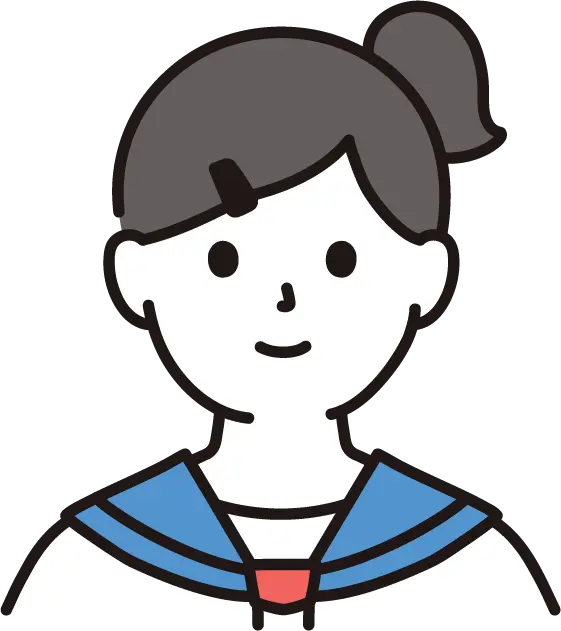
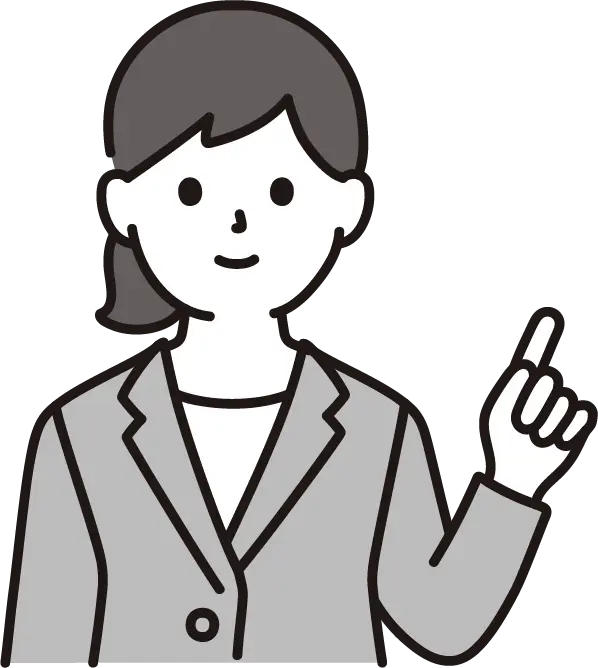
生徒会役員画像変更

diff --git a/src/app/overview/page.tsx b/src/app/overview/page.tsx
@@ -79,7 +79,7 @@ const Home = () => {
         </div>
         <div className="flex flex-col md:flex-row items-center -ml-32 justify-center">
           <Image
-        src="/vice-chair.webp"
+        src="/chair.webp"
         alt="副会長"
         width={200}
         height={200}
@@ -96,21 +96,23 @@ const Home = () => {
           </div>
         </div>
         <div className="flex flex-col md:flex-row items-center ml-32 justify-center">
-          <Image
-        src="/secretary.webp"
-        alt="書記"
-        width={200}
-        height={200}
-        className="mb-4 md:mb-0 md:mr-2"
-          />
-          <div className="bg-green-700 text-white font-bold py-4 px-6 flex flex-col items-center justify-center w-full md:w-[200px] h-[200px]">
-        <h2 className="text-2xl mb-2">書記</h2>
-        <button 
-          className="flex items-center justify-center bg-white text-green-700 rounded-full w-10 h-10 transition-transform duration-300 transform hover:scale-110"
-          onClick={() => handleClick('/secretary')}
-        >
-          <SlArrowRight className="text-2xl transition-transform duration-300 transform hover:translate-x-1" />
-        </button>
+          <div className="w-[200px] h-[200px] flex items-center justify-center">
+            <Image
+              src="/secretary.webp"
+              alt="書記"
+              width={170}
+              height={170}
+              className="mb-4 md:mb-0 md:mr-2"
+            />
+          </div>
+          <div className="bg-green-700 text-white font-bold py-4 px-6 flex ml-2 flex-col items-center justify-center w-full md:w-[200px] h-[200px]">
+            <h2 className="text-2xl mb-2">書記</h2>
+            <button 
+              className="flex items-center justify-center bg-white text-green-700 rounded-full w-10 h-10 transition-transform duration-300 transform hover:scale-110"
+              onClick={() => handleClick('/secretary')}
+            >
+              <SlArrowRight className="text-2xl transition-transform duration-300 transform hover:translate-x-1" />
+            </button>
           </div>
         </div>
         <div className="flex flex-col md:flex-row items-center -ml-32 justify-center">

diff --git a/src/app/components/Results.tsx b/src/app/components/Results.tsx
@@ -4,8 +4,9 @@ const Results = () => {
       <h3 className="text-2xl font-bold text-green-600 mb-4 ml-[10%] text-left">結果公示</h3>
       <div className="space-y-4">
         <div className="border-b border-gray-300 pb-4">
-          <h4 className="text-xl font-semibold">選挙結果速報</h4>
-          <p>開票作業が終了するまで今しばらくお待ちください。</p>
+          <h4 className="text-xl font-semibold">選挙結果</h4><br />
+          <p>オンライン結果公示：2025年2月22日 12:00 (予定)</p>
+          <p>結果公示時間までしばらくお待ちください。</p>
         </div>
       </div>
     </div>

diff --git a/src/app/vice-chair/page.tsx b/src/app/vice-chair/page.tsx
@@ -32,7 +32,7 @@ const ViceChairPage = () => {
               <h1 className="text-4xl ml-6 mb-2 inline-block align-middle mt-2 mr-4">副会長</h1>
             </div>
           </div>
-          <Image src="/vice-chair.webp" alt="役職画像" width={300} height={300} className="max-w-full h-auto mt-5" />
+          <Image src="/chair.webp" alt="役職画像" width={300} height={300} className="max-w-full h-auto mt-5" />
           <p className="text-xl font-semibold mt-2">2024年度中学生徒会副会長 東明里</p>
           <div className="mt-4 w-full">
             <div className="flex items-center w-full mb-4">

diff --git a/src/app/components/News.tsx b/src/app/components/News.tsx
@@ -10,10 +10,10 @@ const News = () => {
         </div></div>
       </div>
       <div className="pb-4">
-        <div className="flex justify-start mt-4">
+        {/* <div className="flex justify-start mt-4">
           <p className="mr-[10%] ml-[20%]">2024.2.14</p>
           <p>中学生徒会選挙2024特設サイト開設！</p>
-        </div>
+        </div> */}
       {/* 追加のニュース項目をここに追加できます */}
       </div>
     </div>
